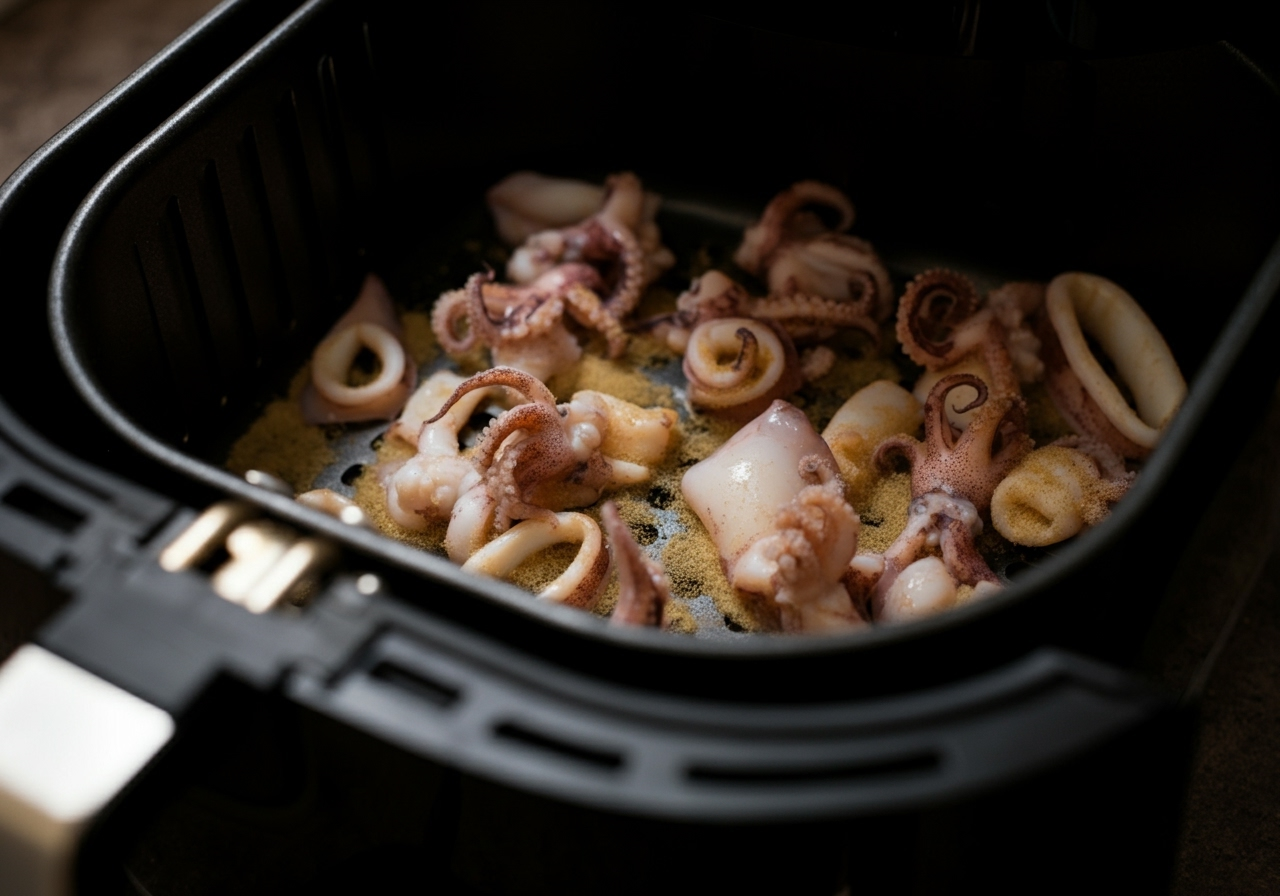
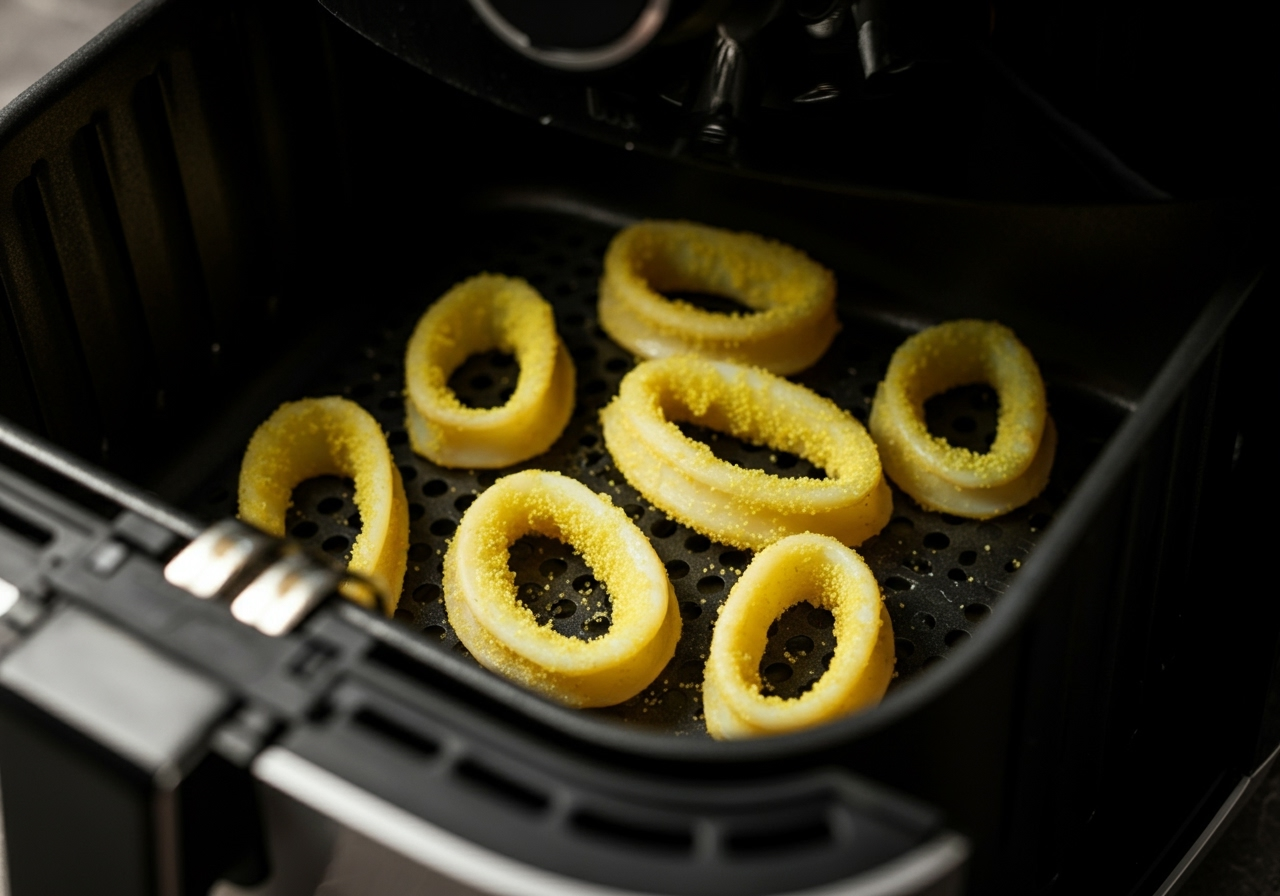
v2 testi pwd e ingr

diff --git a/air-fryer/05-test-generazione.js b/air-fryer/05-test-generazione.js
@@ -10,57 +10,69 @@ const BASE_IMG_DIR = './public/images/recipes';
 const DOMAIN = 'https://www.convertitorefriggitrice.it';
 const PINTEREST_TOKEN = process.env.PINTEREST_TOKEN;
 
-async function generateImagen3Image(prompt, filepath) {
-    try {
-        console.log(`   ⏳ Contatto Google Vertex AI (Imagen 3)...`);
-        
-        const auth = new GoogleAuth({
-            keyFile: '../credenziali-google.json',
-            scopes: ['https://www.googleapis.com/auth/cloud-platform']
-        });
-        
-        const client = await auth.getClient();
-        const projectId = await auth.getProjectId();
-        const token = await client.getAccessToken();
+// ==========================================
+// 1. GENERAZIONE IMMAGINE CON RETRY
+// ==========================================
+async function generateImagen3Image(prompt, filepath, maxRetries = 3) {
+    for (let attempt = 1; attempt <= maxRetries; attempt++) {
+        try {
+            console.log(`   ⏳ Google Vertex AI... [Tentativo ${attempt}/${maxRetries}]`);
+            
+            const auth = new GoogleAuth({
+                keyFile: '../credenziali-google.json',
+                scopes: ['https://www.googleapis.com/auth/cloud-platform']
+            });
+            
+            const client = await auth.getClient();
+            const projectId = await auth.getProjectId();
+            const token = await client.getAccessToken();
 
-        const endpoint = `https://us-central1-aiplatform.googleapis.com/v1/projects/${projectId}/locations/us-central1/publishers/google/models/imagen-3.0-generate-001:predict`;
+            const endpoint = `https://us-central1-aiplatform.googleapis.com/v1/projects/${projectId}/locations/us-central1/publishers/google/models/imagen-3.0-generate-001:predict`;
 
-        const requestBody = {
-            instances: [ { prompt: prompt } ],
-            parameters: {
-                sampleCount: 1,
-                aspectRatio: "4:3",
-                outputOptions: { mimeType: "image/jpeg" }
+            const requestBody = {
+                instances: [ { prompt: prompt } ],
+                parameters: {
+                    sampleCount: 1,
+                    aspectRatio: "4:3",
+                    outputOptions: { mimeType: "image/jpeg" }
+                }
+            };
+
+            const response = await axios.post(endpoint, requestBody, {
+                headers: {
+                    'Authorization': `Bearer ${token.token}`,
+                    'Content-Type': 'application/json'
+                }
+            });
+
+            const base64Image = response.data.predictions[0].bytesBase64Encoded;
+            const buffer = Buffer.from(base64Image, 'base64');
+            
+            fs.writeFileSync(filepath, buffer);
+            return true;
+
+        } catch (e) {
+            const errorMsg = e.response?.data?.error?.message || e.message;
+            console.warn(`   ⚠ Errore (Tentativo ${attempt}): ${errorMsg.substring(0, 100)}`);
+            
+            if (attempt < maxRetries) {
+                console.log(`   ⏳ Quota raggiunta o errore. Pausa di 30 secondi prima del prossimo tentativo...`);
+                await new Promise(res => setTimeout(res, 30000));
+            } else {
+                console.error(`   ❌ Fallito dopo ${maxRetries} tentativi.`);
+                return false;
             }
-        };
-
-        const response = await axios.post(endpoint, requestBody, {
-            headers: {
-                'Authorization': `Bearer ${token.token}`,
-                'Content-Type': 'application/json'
-            }
-        });
-
-        const base64Image = response.data.predictions[0].bytesBase64Encoded;
-        const buffer = Buffer.from(base64Image, 'base64');
-        
-        fs.writeFileSync(filepath, buffer);
-        return true;
-
-    } catch (e) {
-        console.error(`   ❌ Errore Google API:`, e.response?.data?.error?.message || e.message);
-        return false;
+        }
     }
 }
 
+// ==========================================
+// 2. LOGICA PINTEREST
+// ==========================================
 function getTargetBoard(recipe) {
-    const text = (recipe.title + " " + recipe.keywords.join(' ')).toLowerCase();
-    if (text.includes('snack') || text.includes('contorno') || text.includes('antipasto') || text.includes('calamari')) {
-        return process.env.BOARD_ANTIPASTI;
-    }
-    if (text.includes('carne') || text.includes('secondo') || text.includes('hamburger') || text.includes('pesce')) {
-        return process.env.BOARD_SECONDI;
-    }
+    const text = (recipe.title + " " + (recipe.keywords?.join(' ') || "")).toLowerCase();
+    if (/(snack|contorno|antipasto|calamari)/i.test(text)) return process.env.BOARD_ANTIPASTI;
+    if (/(carne|secondo|hamburger|pesce)/i.test(text)) return process.env.BOARD_SECONDI;
     return process.env.BOARD_GENERALI;
 }
 
@@ -69,10 +81,10 @@ async function publishPin(recipe) {
     const imageUrl = `${DOMAIN}/images/recipes/${recipe.image || recipe.slug}.webp`;
     const recipeUrl = `${DOMAIN}/it/recipes/${recipe.slug}`;
 
-    console.log(`📌 Preparazione Pin Pinterest...`);
+    console.log(`📌 Preparazione Pin Pinterest su bacheca: ${boardId}`);
 
     const seoTags = `#friggitriceadaria #airfryerrecipes #ricetteveloci #cucinasana #${recipe.slug.replace(/-/g, '')}`;
-    const description = `✨ ${recipe.title} ✨\n\n${recipe.description}\n\nTempi e temperature perfette per la tua friggitrice ad aria! Clicca sul link per scoprire le dosi esatte e il procedimento passo-passo. 👇\n\n${seoTags}`;
+    const description = `✨ ${recipe.title} ✨\n\n${recipe.description}\n\n${seoTags}`;
 
     try {
         const response = await axios.post('https://api.pinterest.com/v5/pins', {
@@ -88,84 +100,141 @@ async function publishPin(recipe) {
             }
         });
         
-        console.log(`✅ Pin pubblicato! ID: ${response.data.id}`);
+        console.log(`✅ Pin pubblicato con successo! ID: ${response.data.id}`);
         return true;
     } catch (error) {
-        console.error("❌ Errore Pinterest:", error.response?.data || error.message);
+        console.error("❌ Errore Pinterest:", error.response?.data?.message || "Errore sconosciuto (probabile problema di token)");
         return false;
     }
 }
 
+// ==========================================
+// 3. RUNNER PRINCIPALE CON MOTORE DI CONTESTO
+// ==========================================
 async function runTest() {
-    console.log("🚀 AVVIO MOTORE DI REGIA GOOGLE VERTEX AI...");
+    console.log("🚀 AVVIO MOTORE DI REGIA GOOGLE AI (CON MEMORIA DI STATO AVANZATA)...");
 
     let recipes = JSON.parse(fs.readFileSync(RECIPES_FILE, 'utf8'));
-    let recipe = recipes[0]; // LA PRIMA RICETTA
+    let recipe = recipes[0]; // Lavoriamo sulla prima ricetta
 
-    console.log(`\n👨🍳 Elaborazione Ricetta: ${recipe.title}`);
+    console.log(`\n👨🍳 Ricetta in elaborazione: ${recipe.title}`);
     
     const recipeDir = path.join(BASE_IMG_DIR, recipe.slug);
     if (!fs.existsSync(recipeDir)) fs.mkdirSync(recipeDir, { recursive: true });
 
-    recipe.step_images = [];
+    recipe.step_images = new Array(recipe.instructions.length).fill("");
     
+    // Variabili di contesto persistenti tra i vari step
+    let previousVisualContext = "None. This is the very first step.";
+    let currentFoodAppearance = "";
+    
+    // Lista ingredienti e proporzioni da passare come contesto all'IA
+    const ingredientsContext = "Quantities: 400g raw calamari rings, ONLY 100g of fine yellow semolina flour (a very small amount), olive oil spray, salt, lemon wedges.";
+
     for (let i = 0; i < recipe.instructions.length; i++) {
         let step = recipe.instructions[i];
         let stepLower = step.toLowerCase();
-        console.log(`\n📸 Step ${i + 1}: ${step.substring(0, 60)}...`);
+        console.log(`\n📸 Generazione Step ${i + 1}/${recipe.instructions.length}`);
 
-        let prompt = "";
-
-        // Regole hardcoded per i primissimi step delicati dei calamari
-        if (i === 0 && recipe.slug.includes('calamari')) {
-            prompt = `Professional close-up macro food photography. Clean hands gently patting fresh, translucent calamari rings using white absorbent paper towels. Arranged on a rustic wooden counter. STRICTLY NO SEMOLINA, NO FLOUR, NO POTS, NO PANS.`;
-        } else if (i === 1 && recipe.slug.includes('calamari')) {
-            prompt = `Close-up macro shot. Calamari rings being added to a clear food-grade plastic zip-top bag containing fine semolina flour. Hands holding the bag open. STRICTLY NO POTS, NO PANS, NO WOODEN SPOONS.`;
-        } else {
-            // === IL NUOVO MOTORE DI REGIA AUTOMATICO ===
-            
-            // 1. Rilevatore Friggitrice
-            let isInAirFryer = /(cuocer|cottura|girar|cestello|gradi|°c|°f|friggitrice|posizionar)/i.test(stepLower);
-            let environment = isInAirFryer 
-                ? "Action happening STRICTLY INSIDE the dark, perforated black drawer basket of an air fryer." 
-                : "Action happening on a modern wooden kitchen counter.";
-
-            // 2. Rilevatore Azioni Specifiche (es. Spruzzino)
-            let actionOverride = step;
-            if (/(nebulizzare|spruzzare|spray|olio spray)/i.test(stepLower)) {
-                actionOverride += " (Visual focus: a hand holding a glass oil spray bottle, misting cooking oil over the food).";
-                environment = "Action happening STRICTLY INSIDE the black drawer basket of an air fryer.";
-            }
-
-            // 3. Assemblaggio Prompt Blindato
-            prompt = `Professional food photography, close-up macro shot.
-Subject to maintain visual consistency: ${recipe.title}. The food MUST look like '${recipe.title}' and match its specific shape at all times.
-Action taking place: ${actionOverride}.
-Environment: ${environment}.
-Style: photorealistic, highly detailed, soft warm cinematic lighting, appetizing.
-STRICT NEGATIVE CONSTRAINTS: NO standard pans, NO skillets, NO pots, NO whole animals if the recipe is for rings/pieces, NO text.`;
+        // --- 1. DETERMINA LO STATO DI COTTURA (Memoria Cumulativa) ---
+        // Uniamo il testo di tutti gli step fino a quello corrente per capire se abbiamo già iniziato a cuocere
+        let accumulatedSteps = recipe.instructions.slice(0, i + 1).join(" ").toLowerCase();
+        
+        let foodState = "RAW (Crudo)";
+        if (/(cuocer|cottura|girar|doratura|200°c|sfornar|friggere)/i.test(accumulatedSteps)) {
+            foodState = "COOKING/COOKED (Golden brown, crispy, cooked)";
         }
+
+        // --- 2. REGOLA FERREA PER FARINA E SACCHETTI ---
+        let flourRule = "";
+        if (/(sacchetto|semola|farina|impanatura|panatura)/i.test(stepLower)) {
+            flourRule = `CRITICAL RULE: The clear plastic bag MUST NOT be full of flour. It must contain ONLY a very thin, sparse layer of semolina flour at the bottom (representing 100g of flour vs 400g of squid). The raw squid rings must be clearly visible inside. NO giant bags of flour.`;
+        }
+
+        // --- 3. LOGICA UNIVERSALE DI NEGATIVE PROMPT ---
+        const universalNegative = `STRICT NEGATIVE CONSTRAINTS: NO traditional pans, NO pots, NO skillets, NO stovetops, NO text, NO breadcrumbs, NO whole squid, MUST be rings, NO bags full to the brim with flour.`;
+
+        // --- 4. MOTORE DI REGIA PER CALAMARI ---
+        let prompt = "";
+        let environment = "";
+        let actionOverride = step;
+
+        if (recipe.slug.includes('calamari')) {
+            if (i === 0) {
+                currentFoodAppearance = "raw, fresh, moist, translucent white calamari rings";
+                environment = "Rustic wooden counter.";
+                actionOverride = "Clean hands gently patting the raw squid rings dry using white absorbent paper towels.";
+            } 
+            else if (i === 1) {
+                currentFoodAppearance = "raw calamari rings being mixed with a tiny dusting of fine yellow semolina flour";
+                environment = "Rustic wooden counter.";
+                actionOverride = "Hands holding open a clear plastic ziplock food bag. Adding the raw rings into the bag which contains just a tiny bit of yellow semolina.";
+            } 
+            else if (i === 2) {
+                currentFoodAppearance = "raw calamari rings evenly coated with a light layer of fine yellow semolina flour";
+                environment = "Action happening STRICTLY INSIDE the dark, perforated black drawer basket of an air fryer.";
+                actionOverride = "Arranging the flour-coated raw rings in a single layer inside the air fryer basket.";
+            }
+            else if (i === 3) {
+                currentFoodAppearance = "raw calamari rings evenly coated with fine yellow semolina flour, sitting in the basket";
+                environment = "Action happening STRICTLY INSIDE the dark, perforated black drawer basket of an air fryer.";
+                actionOverride = "A hand using a glass oil spray bottle to mist cooking oil evenly over the coated raw rings.";
+            }
+            else {
+                currentFoodAppearance = "perfectly cooked, golden-brown, crispy fried calamari rings";
+                environment = "Action happening STRICTLY INSIDE the dark, perforated black drawer basket of an air fryer.";
+                actionOverride = "The fully cooked crispy rings resting inside the air fryer basket, showing a perfect golden texture.";
+            }
+        } else {
+            // Fallback per altre ricette
+            let isInAirFryer = /(cuocer|cottura|girar|cestello|gradi|°c|°f|friggitrice|posizionar)/i.test(stepLower);
+            environment = isInAirFryer 
+                ? "Action happening STRICTLY INSIDE the dark black perforated drawer basket of an air fryer." 
+                : "Action happening on a modern wooden kitchen counter.";
+            currentFoodAppearance = `Subject matter corresponding to recipe: ${recipe.title}`;
+        }
+
+        // --- 5. COSTRUZIONE PROMPT FINALE STRUTTURATO ---
+        prompt = `Professional food photography, close-up macro shot.
+CONTEXT:
+- Ingredients present: ${ingredientsContext}
+- Previous visual state: ${previousVisualContext}
+- Current Food State: ${foodState}
+- Current Appearance: ${currentFoodAppearance}
+ACTION: ${actionOverride}
+ENVIRONMENT: ${environment}
+${flourRule}
+STYLE: photorealistic, cinematic lighting, highly detailed.
+${universalNegative}`;
 
         const imgName = `step_${i + 1}.jpg`;
         const imgPath = path.join(recipeDir, imgName);
 
+        // Generiamo l'immagine
         const success = await generateImagen3Image(prompt, imgPath);
+        
         if (success) {
-            recipe.step_images.push(`/images/recipes/${recipe.slug}/${imgName}`);
-            console.log(`   ✅ Foto generata e salvata: ${imgName}`);
+            recipe.step_images[i] = `/images/recipes/${recipe.slug}/${imgName}`;
+            console.log(`   ✅ Step ${i+1} completato.`);
+            // Aggiorniamo la memoria per lo step successivo
+            previousVisualContext = currentFoodAppearance;
+        } else {
+            console.log(`   ⚠ Step ${i+1} fallito dopo i retry.`);
         }
         
-        console.log(`   ⏳ Attendo 15 secondi per rispettare le quote di Google...`);
-        await new Promise(res => setTimeout(res, 15000));
+        // Pausa cautelativa tra gli step
+        console.log(`   ⏳ Pausa 20s...`);
+        await new Promise(res => setTimeout(res, 20000));
     }
 
-    console.log(`\n📱 Avvio pubblicazione Pinterest...`);
-    const pinSuccess = await publishPin(recipe);
-    if (pinSuccess) recipe.pinterest_pin_published = true;
+    console.log(`\n📱 Avvio caricamento su Pinterest...`);
+    const pinOk = await publishPin(recipe);
+    if (pinOk) recipe.pinterest_pin_published = true;
 
+    // Salvataggio finale
     fs.writeFileSync(RECIPES_FILE, JSON.stringify(recipes, null, 2));
-    console.log(`\n💾 Dati salvati in recipes-it.json`);
-    console.log(`🎉 AUTOMAZIONE COMPLETATA!`);
+    console.log(`\n💾 JSON aggiornato correttamente.`);
+    console.log(`🎉 FINE PROCESSO.`);
 }
 
 runTest();
